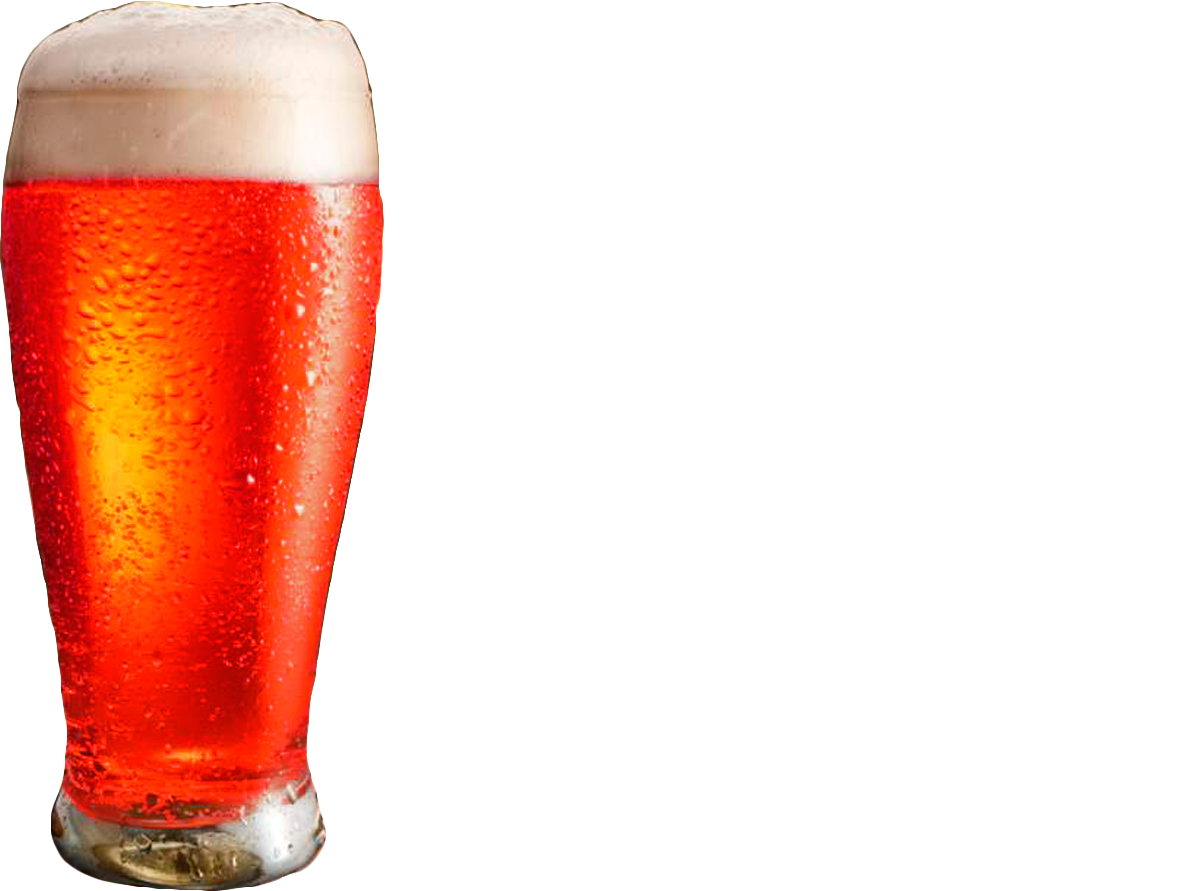
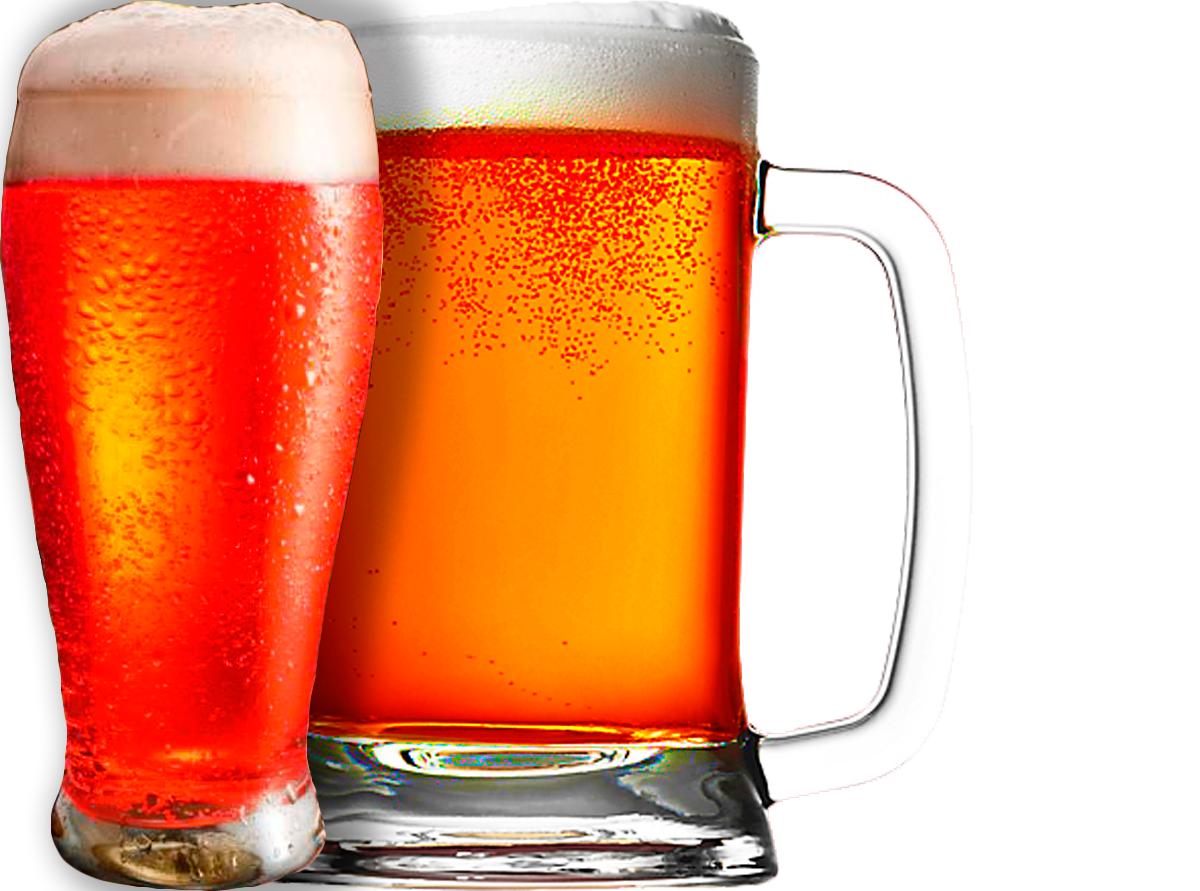
MaxiPosta: Se modificaron imagenes de la cerveza, se agrega el boton para chequear el pedido, se modifica tamaño y distancia de etiqueta "boton"

diff --git a/public/css/main.css b/public/css/main.css
@@ -162,15 +162,19 @@ button{
 }
 .cadaSlide-descrip p{
     width: 400px !important;
-    font-size: 1.3rem
+    font-size: 1.3rem;
 }
 
 .loPedido {
-    width: 20vw;
-    height: 20vh;
-    background-color: red;
+    width: 100px;
+    height: 100px;
     z-index: 2;
     position: absolute;
     bottom: 0;
     right: 0;
+}
+
+.botones{
+    padding-top: 10px;
+    font-size: 1.3rem;
 }

diff --git a/public/index.php b/public/index.php
@@ -18,7 +18,7 @@
         <div id="cuerpo">
             <div class="form_container">
                <div class="loPedido">
-                        hsfoasdfasdf
+                        <img src="img/pedido.png">
                 </div>
                 <div class="slideContainer">
                     
